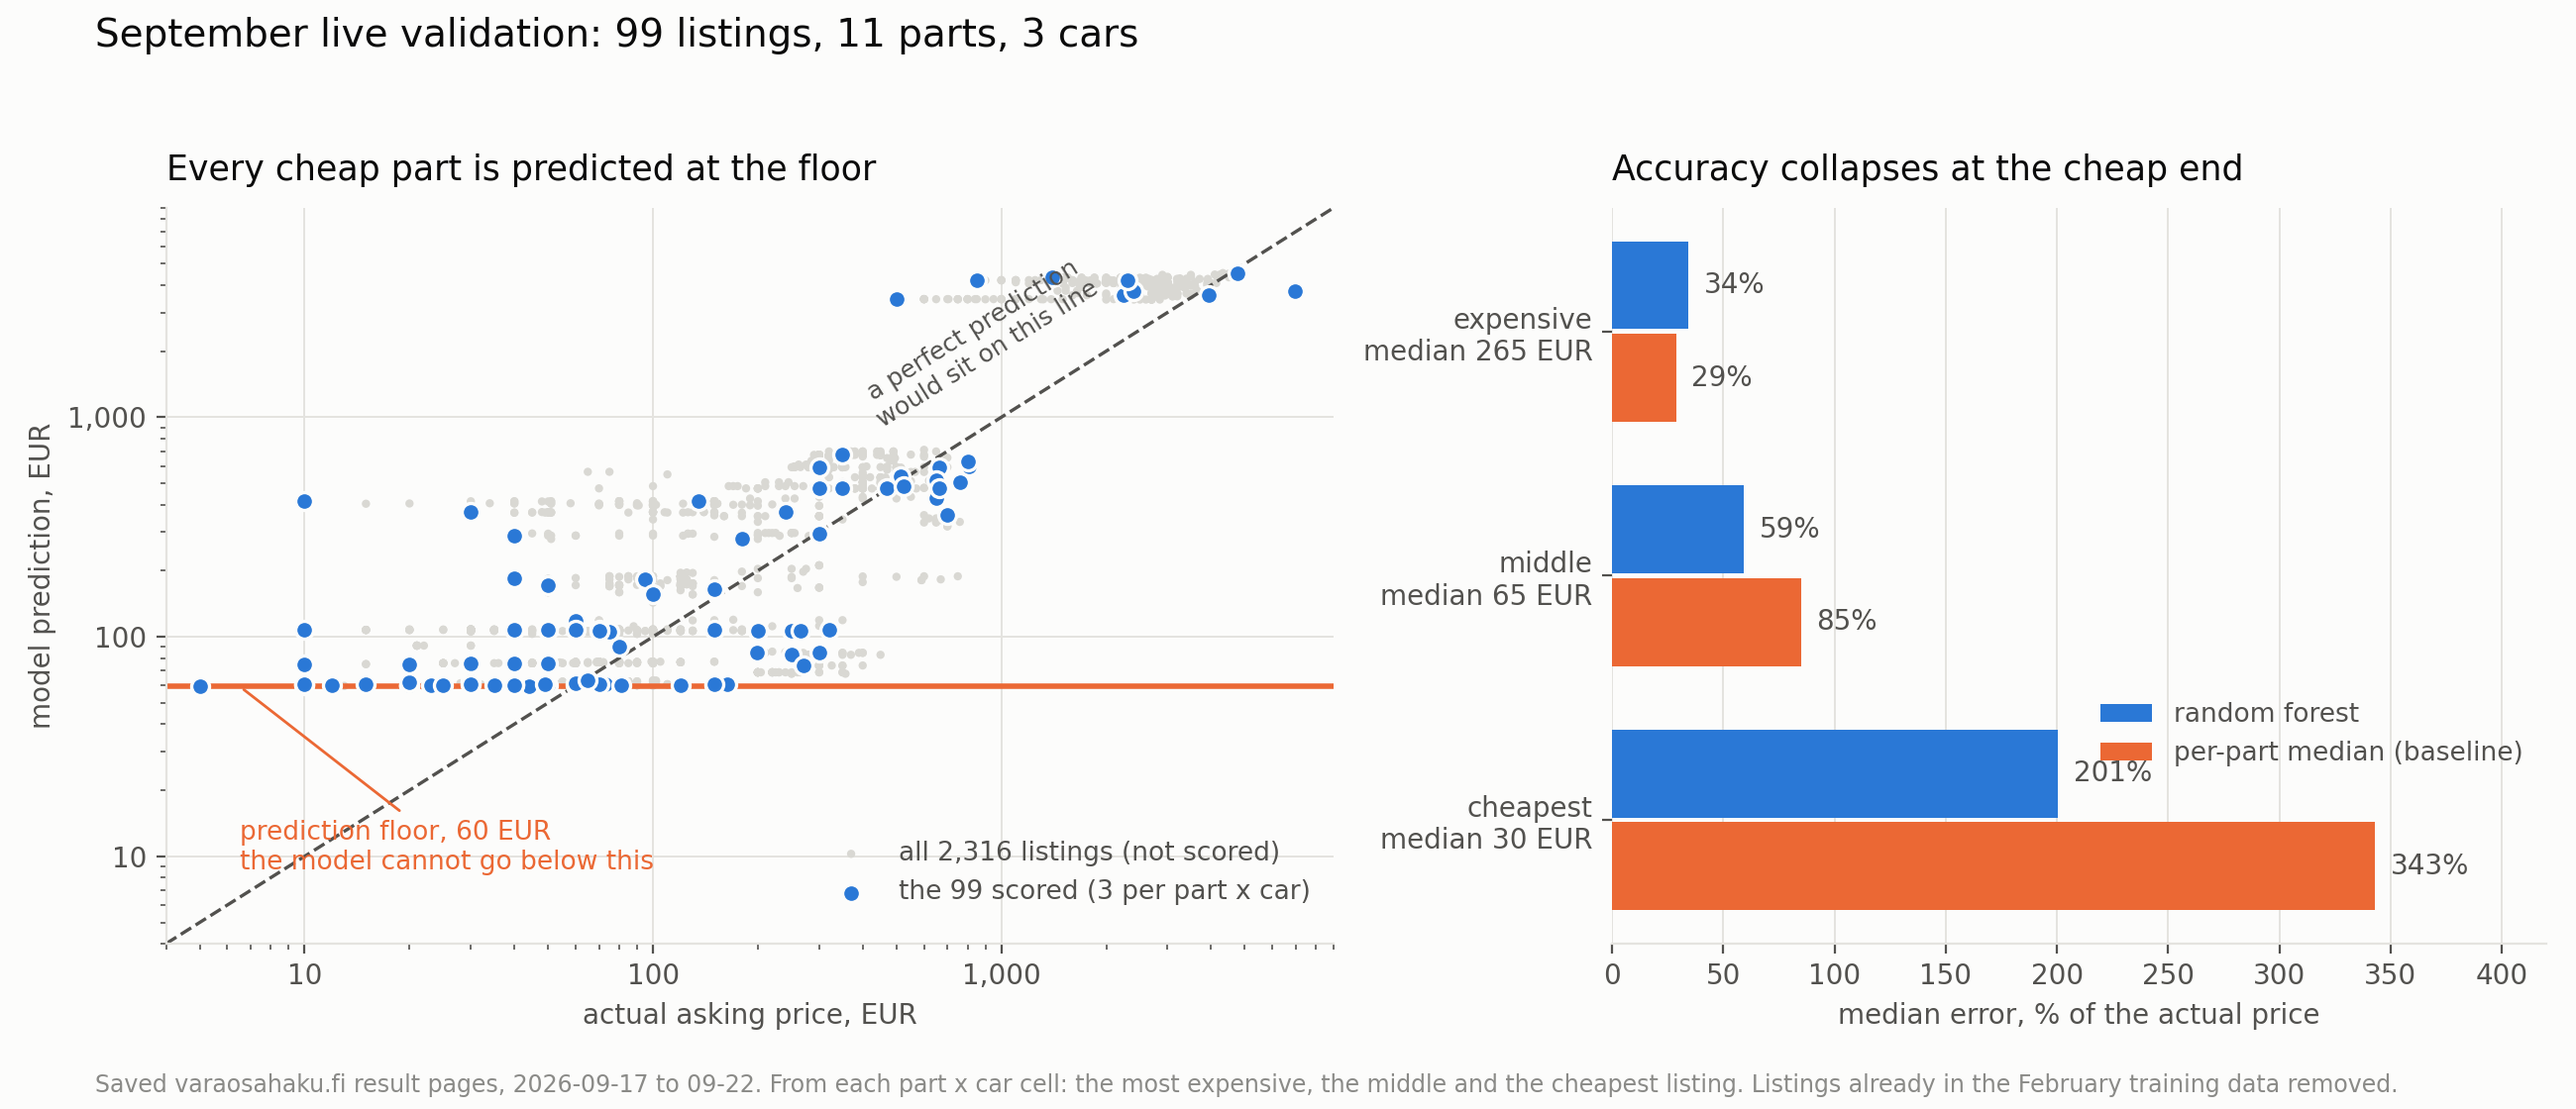
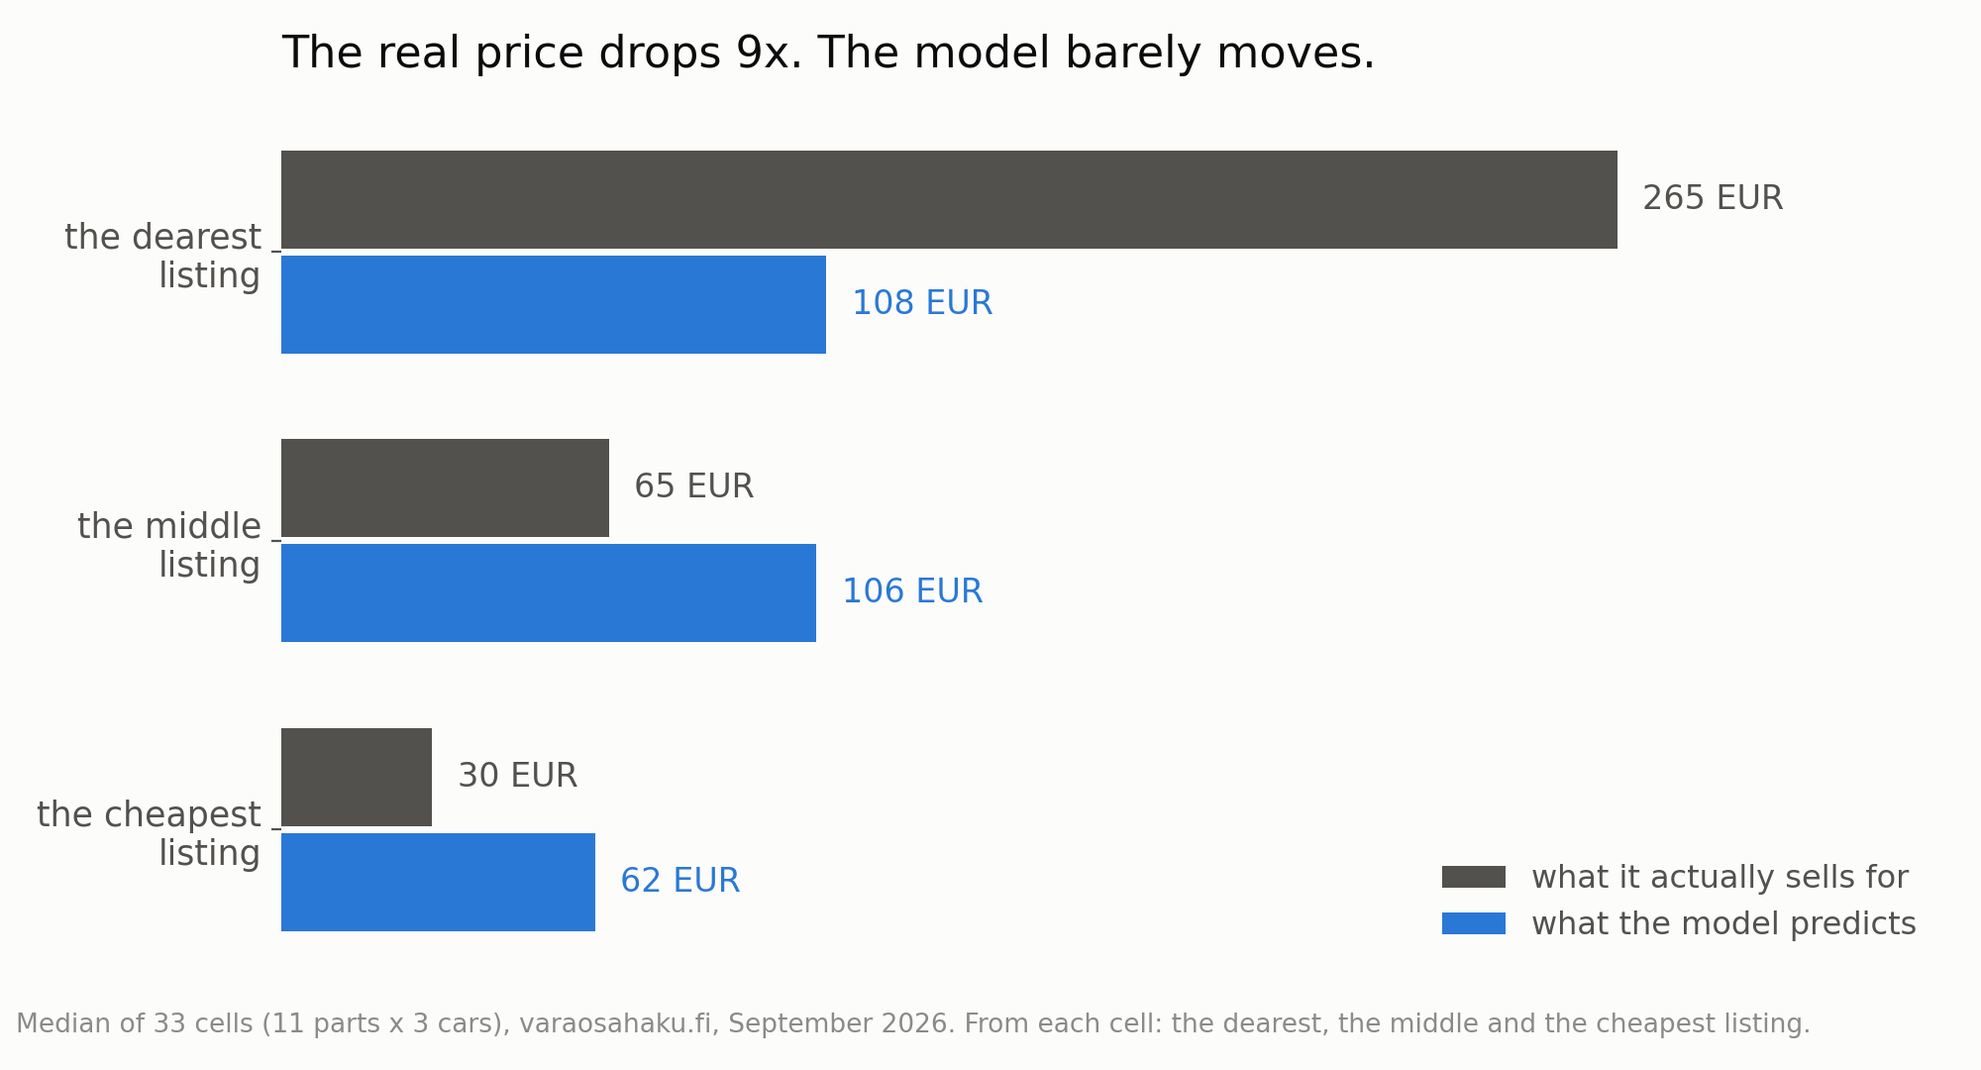
Simplify the validation figure to one comparison chart

diff --git a/scripts/plot_september_validation.py b/scripts/plot_september_validation.py
@@ -102,12 +102,13 @@ def three_per_cell(listings):
 def main():
     listings = scored_listings()
     drawn = three_per_cell(listings)
-    floor = float(listings.predicted.min())
+    actual = [drawn[drawn.tier == t].price.median() for t in TIERS]
+    predicted = [drawn[drawn.tier == t].predicted.median() for t in TIERS]
 
     plt.rcParams.update(
         {
             "font.family": "DejaVu Sans",
-            "font.size": 10,
+            "font.size": 12,
             "axes.edgecolor": GRID,
             "axes.labelcolor": INK2,
             "text.color": INK,
@@ -117,107 +118,44 @@ def main():
             "axes.facecolor": SURFACE,
         }
     )
-    figure, (left, right) = plt.subplots(
-        1, 2, figsize=(13, 5.6), gridspec_kw={"width_ratios": [1.25, 1]}
-    )
-
-    left.scatter(
-        listings.price, listings.predicted, s=9, c=CONTEXT, edgecolors="none",
-        zorder=1, label=f"all {len(listings):,} listings (not scored)",
-    )
-    left.scatter(
-        drawn.price, drawn.predicted, s=42, c=BLUE, edgecolors=SURFACE,
-        linewidths=1.2, zorder=3, label=f"the {len(drawn)} scored (3 per part x car)",
-    )
-    limits = [4, 9000]
-    left.plot(limits, limits, color=INK2, lw=1.2, ls="--", zorder=2)
-    left.axhline(floor, color=ORANGE, lw=2, zorder=2)
-    left.annotate(
-        f"prediction floor, {floor:.0f} EUR\nthe model cannot go below this",
-        xy=(6.5, floor), xytext=(6.5, 11), color=ORANGE, fontsize=9.5,
-        va="center", ha="left", arrowprops=dict(arrowstyle="-", color=ORANGE, lw=1),
-    )
-    left.text(
-        950, 1750, "a perfect prediction\nwould sit on this line", color=INK2,
-        fontsize=9, rotation=32, rotation_mode="anchor", ha="center", va="bottom",
-    )
-    left.set_xscale("log")
-    left.set_yscale("log")
-    left.set_xlim(limits)
-    left.set_ylim(limits)
-    plain = FuncFormatter(lambda value, _: f"{value:,.0f}")
-    left.xaxis.set_major_formatter(plain)
-    left.yaxis.set_major_formatter(plain)
-    left.set_xlabel("actual asking price, EUR")
-    left.set_ylabel("model prediction, EUR")
-    left.set_title(
-        "Every cheap part is predicted at the floor", fontsize=12.5, color=INK,
-        loc="left", pad=10,
-    )
-    left.grid(True, color=GRID, lw=0.7, zorder=0)
-    left.set_axisbelow(True)
-    for spine in ("top", "right"):
-        left.spines[spine].set_visible(False)
-    left.legend(
-        frameon=False, loc="lower right", fontsize=9.5, labelcolor=INK2,
-        bbox_to_anchor=(1, 0.02),
-    )
-
-    model_error = [drawn[drawn.tier == t].ape_model.median() for t in TIERS]
-    heuristic_error = [drawn[drawn.tier == t].ape_heuristic.median() for t in TIERS]
+    figure, axes = plt.subplots(figsize=(10, 5.4))
     positions = np.arange(3)
-    height = 0.36
-    right.barh(
-        positions - height / 2 - 0.01, model_error, height, color=BLUE,
-        label="random forest", zorder=3,
-    )
-    right.barh(
-        positions + height / 2 + 0.01, heuristic_error, height, color=ORANGE,
-        label="per-part median (baseline)", zorder=3,
-    )
-    for row, value in zip(positions - height / 2 - 0.01, model_error):
-        right.text(value + 7, row, f"{value:.0f}%", va="center", fontsize=10, color=INK2)
-    for row, value in zip(positions + height / 2 + 0.01, heuristic_error):
-        right.text(value + 7, row, f"{value:.0f}%", va="center", fontsize=10, color=INK2)
-    right.set_yticks(
-        positions,
-        [f"{t}\nmedian {drawn[drawn.tier == t].price.median():,.0f} EUR" for t in TIERS],
-        fontsize=10,
-    )
-    right.invert_yaxis()
-    right.set_xlim(0, 420)
-    right.set_xlabel("median error, % of the actual price")
-    right.set_title(
-        "Accuracy collapses at the cheap end", fontsize=12.5, color=INK, loc="left", pad=10
-    )
-    right.grid(True, axis="x", color=GRID, lw=0.7, zorder=0)
-    right.set_axisbelow(True)
-    for spine in ("top", "right", "left"):
-        right.spines[spine].set_visible(False)
-    right.legend(
-        frameon=False, loc="upper right", fontsize=9.5, labelcolor=INK2,
-        bbox_to_anchor=(1, 0.36),
-    )
+    height = 0.34
 
-    figure.suptitle(
-        "September live validation: 99 listings, 11 parts, 3 cars",
-        fontsize=14, color=INK, x=0.037, ha="left", y=0.985,
+    axes.barh(positions - height / 2 - 0.012, actual, height, color=INK2,
+              label="what it actually sells for", zorder=3)
+    axes.barh(positions + height / 2 + 0.012, predicted, height, color=BLUE,
+              label="what the model predicts", zorder=3)
+    for row, value in zip(positions - height / 2 - 0.012, actual):
+        axes.text(value + 5, row, f"{value:,.0f} EUR", va="center", fontsize=12, color=INK2)
+    for row, value in zip(positions + height / 2 + 0.012, predicted):
+        axes.text(value + 5, row, f"{value:,.0f} EUR", va="center", fontsize=12, color=BLUE)
+
+    axes.set_yticks(positions, ["the dearest\nlisting", "the middle\nlisting",
+                                "the cheapest\nlisting"], fontsize=12.5)
+    axes.invert_yaxis()
+    axes.set_xlim(0, 330)
+    axes.set_xticks([])
+    axes.grid(False)
+    for spine in ("top", "right", "left", "bottom"):
+        axes.spines[spine].set_visible(False)
+    axes.legend(frameon=False, loc="lower right", fontsize=11.5, labelcolor=INK2)
+
+    axes.set_title(
+        "The real price drops 9x. The model barely moves.",
+        fontsize=16, color=INK, loc="left", pad=16,
     )
     figure.text(
-        0.037, 0.015,
-        "Saved varaosahaku.fi result pages, 2026-09-17 to 09-22. From each part x car cell: "
-        "the most expensive, the middle and the cheapest listing. Listings already in the "
-        "February training data removed.",
-        fontsize=8.5, color=MUTED,
+        0.008, 0.035,
+        "Median of 33 cells (11 parts x 3 cars), varaosahaku.fi, September 2026. From each cell: "
+        "the dearest, the middle and the cheapest listing.",
+        fontsize=9.5, color=MUTED,
     )
-    figure.tight_layout(rect=[0, 0.045, 1, 0.95])
+    figure.tight_layout(rect=[0, 0.06, 1, 1])
     figure.savefig(OUT, dpi=200)
     print(f"saved {OUT}")
-    print(
-        pd.DataFrame(
-            {"tier": TIERS, "random_forest": model_error, "heuristic": heuristic_error}
-        ).to_string(index=False, float_format="{:,.1f}".format)
-    )
+    print(pd.DataFrame({"tier": TIERS, "actual": actual, "model": predicted}).to_string(
+        index=False, float_format="{:,.0f}".format))
 
 
 if __name__ == "__main__":
